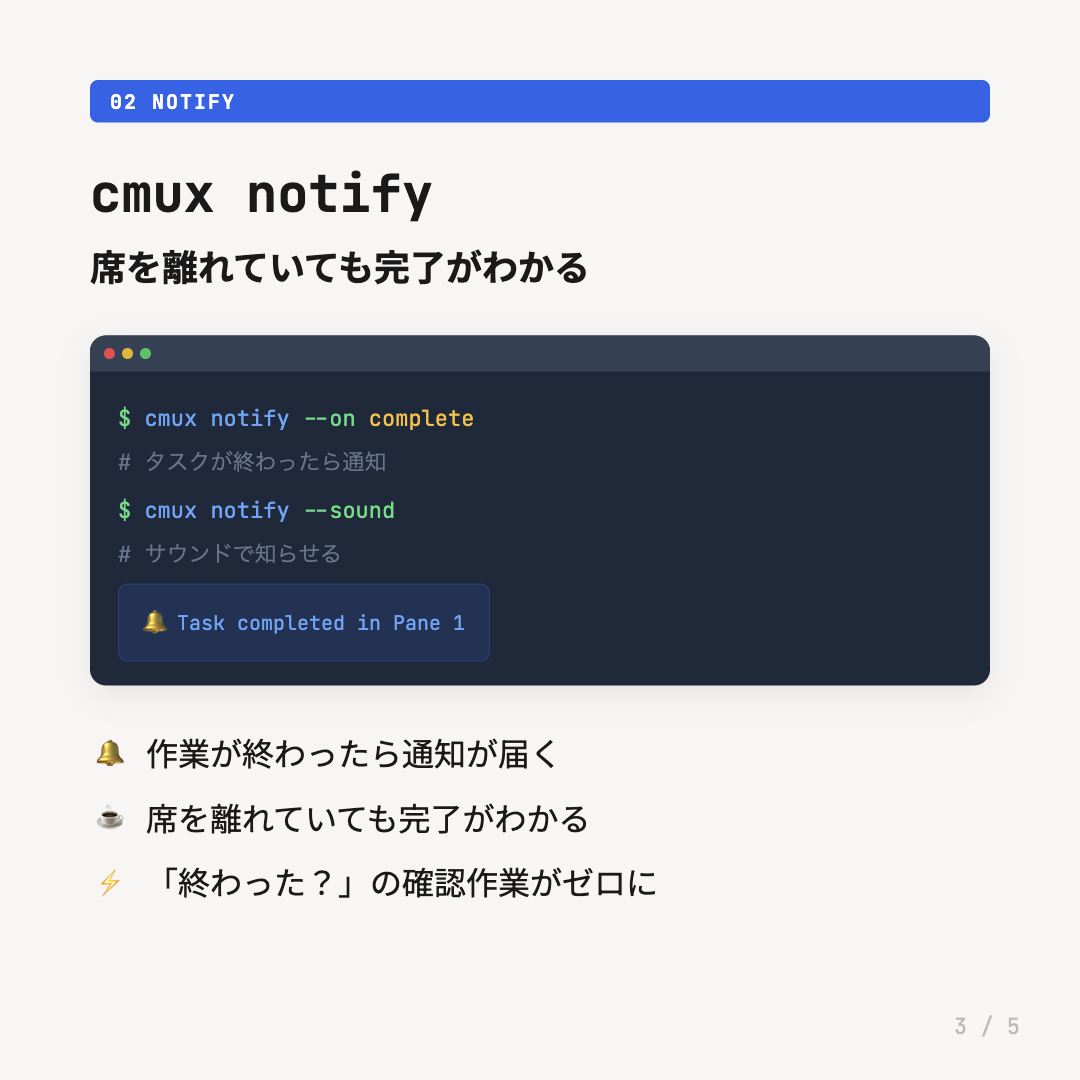
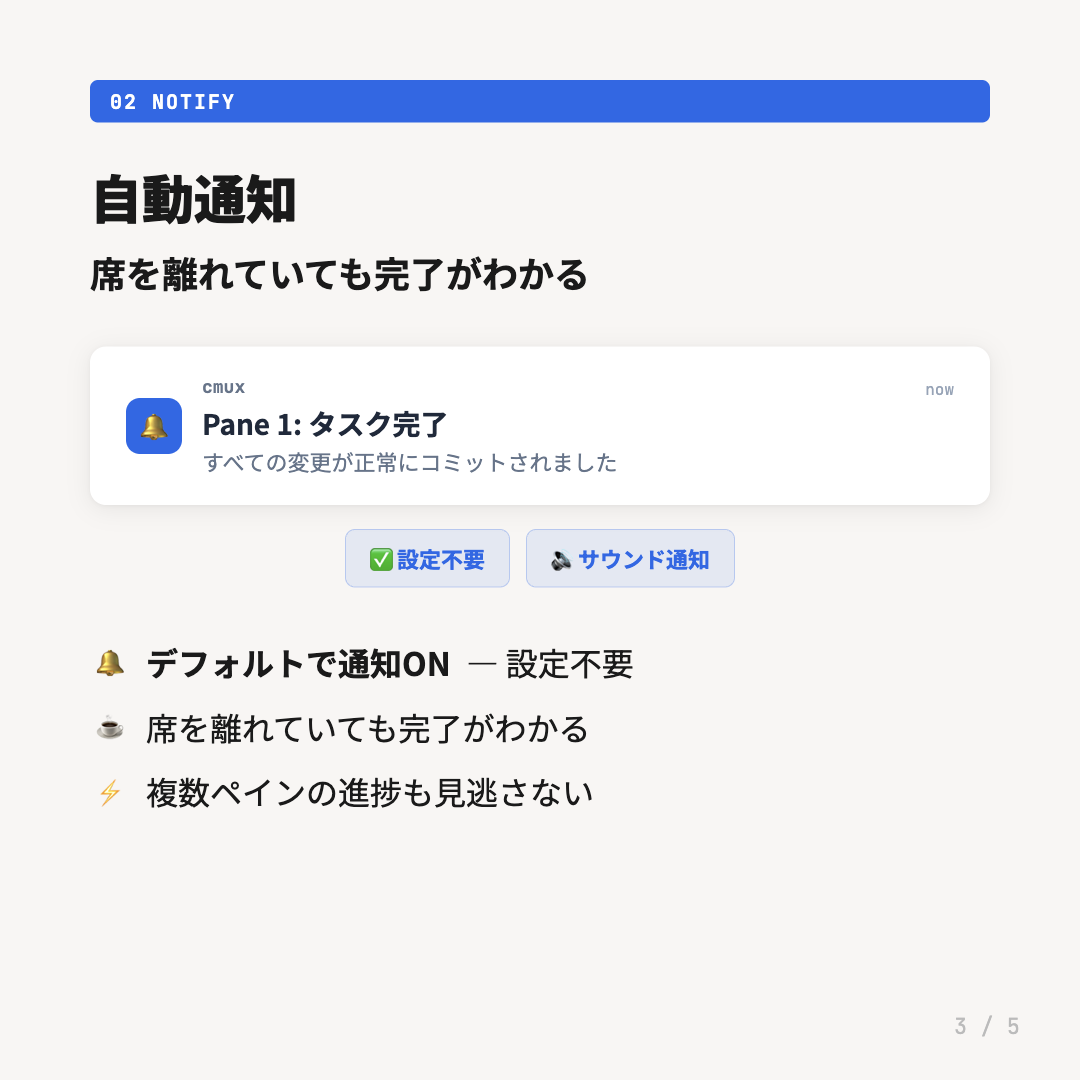
fix: cmuxカルーセル通知スライドをcmux notifyコマンド紹介から自動通知の説明に修正
slide3: cmux notifyコマンド例を削除し、macOS通知風UIで「デフォルトで通知ON・設定不要」を強調
slide5: サマリーの「notify」を「Auto Notify」に更新
PNG再生成済み

diff --git a/carousel-output/cmux/slide3.html b/carousel-output/cmux/slide3.html
@@ -32,69 +32,87 @@ body {
   margin-bottom: 36px;
 }
 .title {
-  font-family: 'JetBrains Mono', monospace;
   font-size: 52px;
-  font-weight: 700;
+  font-weight: 900;
   margin-bottom: 12px;
 }
 .description {
   font-size: 36px;
   font-weight: 700;
-  margin-bottom: 44px;
+  margin-bottom: 48px;
 }
-.terminal {
-  background: #1e293b;
+.notification-area {
+  display: flex;
+  flex-direction: column;
+  align-items: center;
+  gap: 24px;
+  margin-bottom: 52px;
+}
+.notification-card {
+  background: #fff;
   border-radius: 16px;
+  padding: 28px 36px;
   width: 100%;
-  box-shadow: 0 8px 32px rgba(0, 0, 0, 0.08);
-  overflow: hidden;
-  margin-bottom: 44px;
-}
-.terminal-bar {
-  background: #334155;
-  height: 36px;
+  box-shadow: 0 4px 24px rgba(0, 0, 0, 0.08), 0 1px 4px rgba(0, 0, 0, 0.04);
   display: flex;
   align-items: center;
-  padding: 0 14px;
-  gap: 7px;
+  gap: 20px;
 }
-.terminal-dot {
-  width: 11px;
-  height: 11px;
-  border-radius: 50%;
+.notification-icon {
+  width: 56px;
+  height: 56px;
+  background: #2563eb;
+  border-radius: 14px;
+  display: flex;
+  align-items: center;
+  justify-content: center;
+  font-size: 28px;
+  flex-shrink: 0;
 }
-.terminal-dot.red { background: #ef4444; }
-.terminal-dot.yellow { background: #eab308; }
-.terminal-dot.green { background: #22c55e; }
-.terminal-body {
-  padding: 24px 28px;
+.notification-content {
+  flex: 1;
+}
+.notification-app {
   font-family: 'JetBrains Mono', monospace;
+  font-size: 18px;
+  font-weight: 700;
+  color: #64748b;
+  margin-bottom: 4px;
+}
+.notification-title {
+  font-size: 28px;
+  font-weight: 700;
+  color: #1e293b;
+  margin-bottom: 2px;
+}
+.notification-body {
   font-size: 22px;
-  line-height: 2;
+  color: #64748b;
 }
-.terminal-line {
+.notification-time {
+  font-family: 'JetBrains Mono', monospace;
+  font-size: 16px;
   color: #94a3b8;
+  flex-shrink: 0;
+  align-self: flex-start;
+  margin-top: 4px;
 }
-.terminal-line .prompt { color: #4ade80; }
-.terminal-line .cmd { color: #60a5fa; }
-.terminal-line .flag { color: #4ade80; }
-.terminal-line .str { color: #fbbf24; }
-.terminal-line .comment { color: #64748b; }
-.notify-badge {
+.badge-row {
+  display: flex;
+  gap: 16px;
+  justify-content: center;
+}
+.badge {
   display: inline-flex;
   align-items: center;
-  gap: 10px;
-  background: rgba(37, 99, 235, 0.15);
-  border: 1px solid rgba(37, 99, 235, 0.3);
+  gap: 8px;
+  background: rgba(37, 99, 235, 0.1);
+  border: 1px solid rgba(37, 99, 235, 0.25);
   border-radius: 10px;
-  padding: 14px 24px;
-  margin-top: 8px;
-  font-family: 'JetBrains Mono', monospace;
-  font-size: 20px;
-  color: #60a5fa;
-}
-.notify-icon {
-  font-size: 24px;
+  padding: 12px 24px;
+  font-size: 22px;
+  font-weight: 700;
+  color: #2563eb;
 }
 .points {
   display: flex;
@@ -115,6 +133,9 @@ body {
   width: 40px;
   text-align: center;
 }
+.point strong {
+  font-weight: 700;
+}
 .slide-counter {
   position: absolute;
   bottom: 40px;
@@ -127,29 +148,27 @@ body {
 </head>
 <body>
 <div class="tag">02 NOTIFY</div>
-<div class="title">cmux notify</div>
+<div class="title">自動通知</div>
 <div class="description">席を離れていても完了がわかる</div>
-<div class="terminal">
-  <div class="terminal-bar">
-    <div class="terminal-dot red"></div>
-    <div class="terminal-dot yellow"></div>
-    <div class="terminal-dot green"></div>
-  </div>
-  <div class="terminal-body">
-    <div class="terminal-line"><span class="prompt">$</span> <span class="cmd">cmux notify</span> <span class="flag">--on</span> <span class="str">complete</span></div>
-    <div class="terminal-line"><span class="comment"># タスクが終わったら通知</span></div>
-    <div class="terminal-line" style="margin-top: 4px;"><span class="prompt">$</span> <span class="cmd">cmux notify</span> <span class="flag">--sound</span></div>
-    <div class="terminal-line"><span class="comment"># サウンドで知らせる</span></div>
-    <div class="notify-badge">
-      <span class="notify-icon">&#x1F514;</span>
-      <span>Task completed in Pane 1</span>
+<div class="notification-area">
+  <div class="notification-card">
+    <div class="notification-icon">&#x1F514;</div>
+    <div class="notification-content">
+      <div class="notification-app">cmux</div>
+      <div class="notification-title">Pane 1: タスク完了</div>
+      <div class="notification-body">すべての変更が正常にコミットされました</div>
     </div>
+    <div class="notification-time">now</div>
+  </div>
+  <div class="badge-row">
+    <div class="badge">&#x2705; 設定不要</div>
+    <div class="badge">&#x1F50A; サウンド通知</div>
   </div>
 </div>
 <div class="points">
-  <div class="point"><span class="point-icon">&#x1F514;</span>作業が終わったら通知が届く</div>
+  <div class="point"><span class="point-icon">&#x1F514;</span><strong>デフォルトで通知ON</strong> — 設定不要</div>
   <div class="point"><span class="point-icon">&#x2615;</span>席を離れていても完了がわかる</div>
-  <div class="point"><span class="point-icon">&#x26A1;</span>「終わった？」の確認作業がゼロに</div>
+  <div class="point"><span class="point-icon">&#x26A1;</span>複数ペインの進捗も見逃さない</div>
 </div>
 <div class="slide-counter">3 / 5</div>
 </body>

diff --git a/carousel-output/cmux/slide5.html b/carousel-output/cmux/slide5.html
@@ -123,7 +123,7 @@ body {
     <div class="card-text">並列作業で速度UP</div>
   </div>
   <div class="card">
-    <div class="card-cmd">notify</div>
+    <div class="card-cmd">Auto Notify</div>
     <div class="card-arrow">&#x2192;</div>
     <div class="card-text">待ち時間を自由時間に</div>
   </div>
